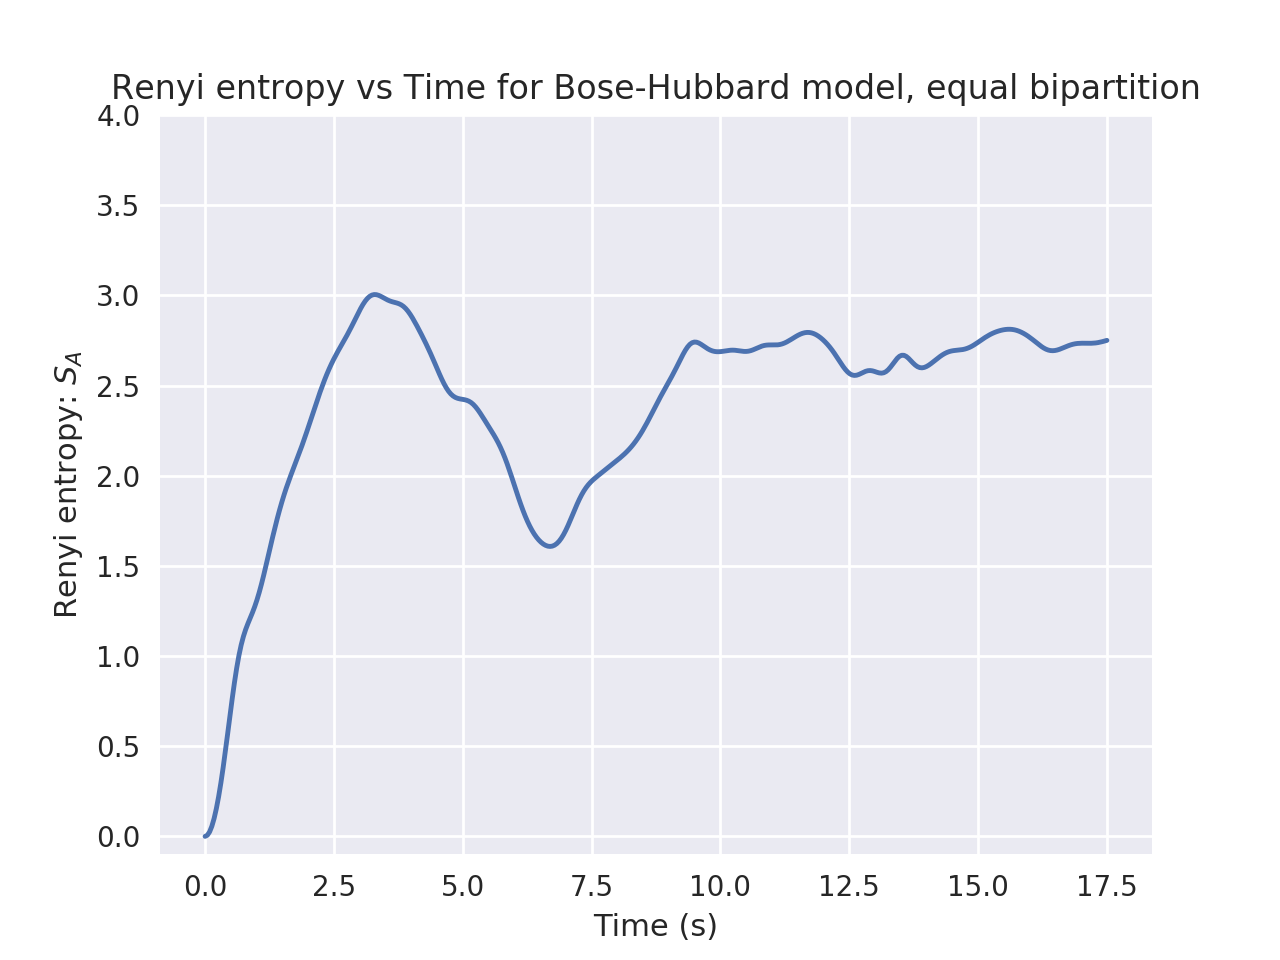
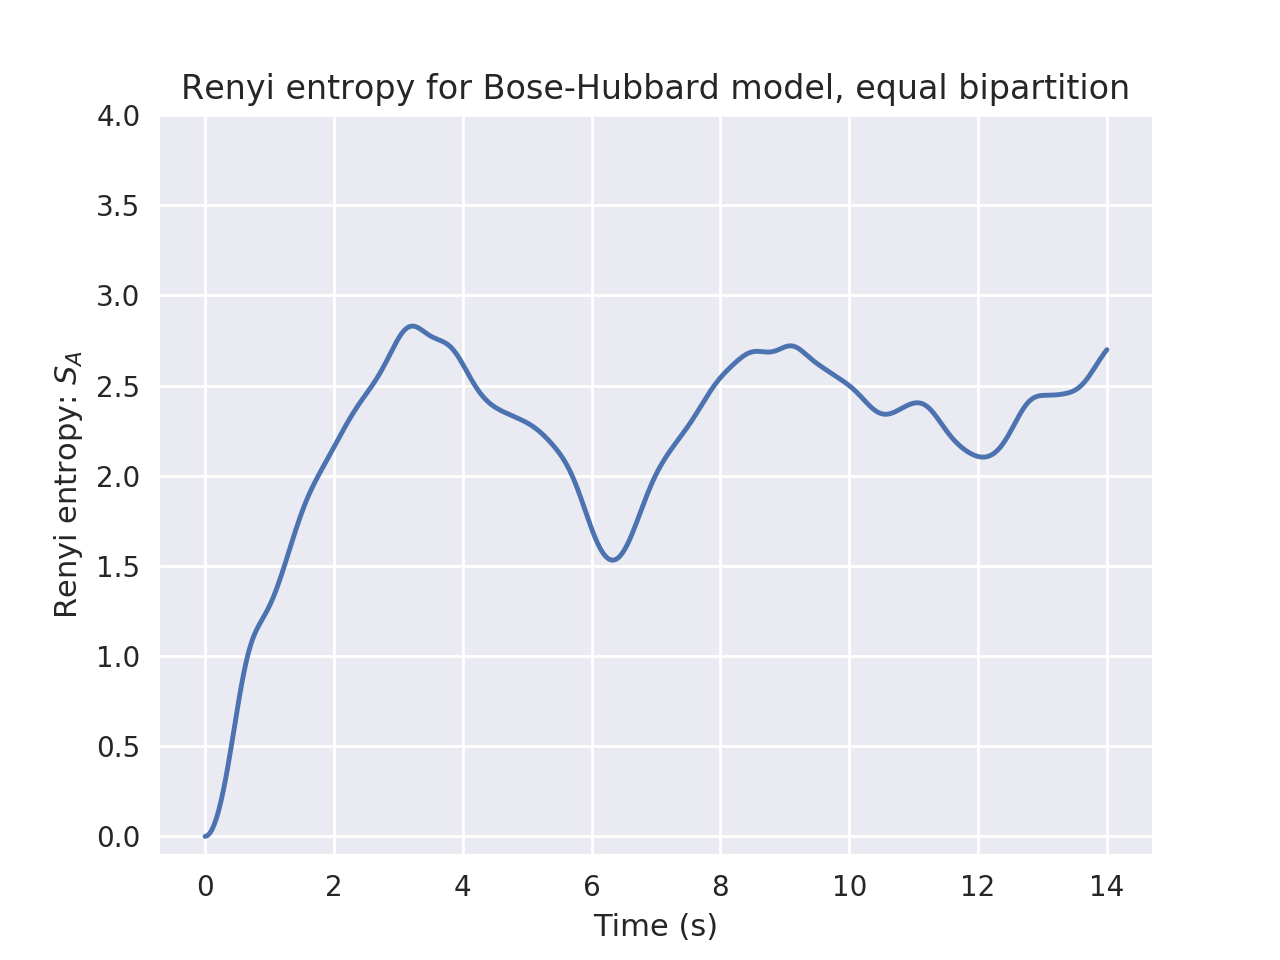
Updated plot

diff --git a/proj.py b/proj.py
@@ -123,7 +123,7 @@ def actHam(state, N, J, U):
         t1.append(state.create(i, N).destroy(i+1))
     # Second term
     for i in range(len(state.vector)):
-        PREFACTOR = (state.num(i)**2) - state.num(i)
+        PREFACTOR = state.num(i) * (state.num(i) - 1)
         temp3 = deepcopy(state)
         temp3.prefactor *= (PREFACTOR*U/2)
         t2.append(temp3)
@@ -174,7 +174,7 @@ def getPlot(initDict, tArr):
     """
     entropy_arr = []
     for t in tArr:
-        #print('Time: ' + str(t), flush=True)
+        print('Time: ' + str(t), flush=True)
         tEntropy = initDict['initState'].tevolve(initDict['ham'], t).entropy(
             initDict['N'], initDict['M'], initDict['basis'], initDict['ASIZE'])
         entropy_arr.append(tEntropy)
@@ -183,7 +183,7 @@ def getPlot(initDict, tArr):
     plt.ylabel('Renyi entropy: $S_{A}$')
     plt.title('Renyi entropy for Bose-Hubbard model, equal bipartition')
     plt.ylim((-0.1, 4))
-    #plt.savefig('plot.png', format='png', dpi=200)
+    plt.savefig('plot.png', format='png', dpi=200)
     plt.show()
     return
 
@@ -207,4 +207,4 @@ def init():
 if(__name__ == '__main__'):
     print('In module.')
     initDict = init()
-    getPlot(initDict, np.linspace(0, 17.5, 501))
+    getPlot(initDict, np.linspace(0, 14, 401))
